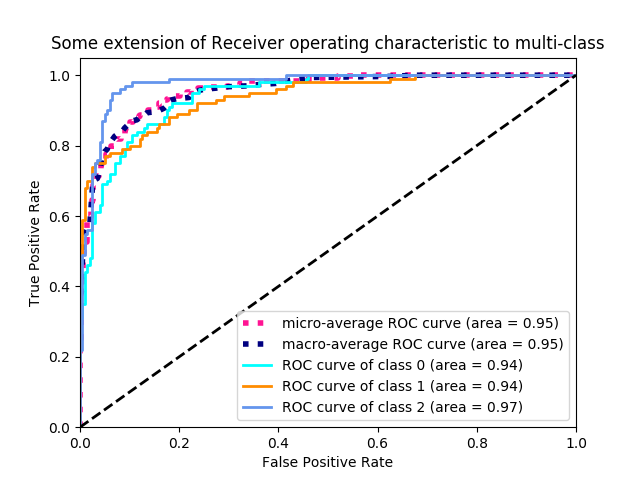
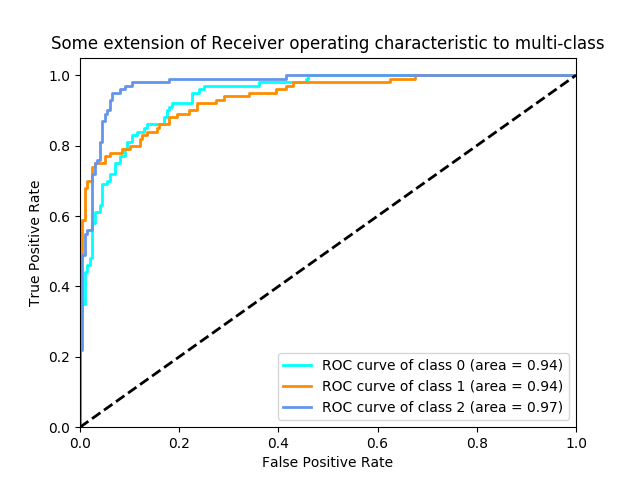
roc

diff --git a/TransferLearning/ROCCurve.py b/TransferLearning/ROCCurve.py
@@ -156,6 +156,7 @@ roc_auc["macro"] = auc(fpr["macro"], tpr["macro"])
 
 # Plot all ROC curves
 plt.figure(1)
+'''
 plt.plot(fpr["micro"], tpr["micro"],
          label='micro-average ROC curve (area = {0:0.2f})'
                ''.format(roc_auc["micro"]),
@@ -165,7 +166,7 @@ plt.plot(fpr["macro"], tpr["macro"],
          label='macro-average ROC curve (area = {0:0.2f})'
                ''.format(roc_auc["macro"]),
          color='navy', linestyle=':', linewidth=4)
-
+'''
 colors = cycle(['aqua', 'darkorange', 'cornflowerblue'])
 for i, color in zip(range(n_classes), colors):
     plt.plot(fpr[i], tpr[i], color=color, lw=lw,
@@ -190,6 +191,7 @@ else:
 plt.figure(2)
 plt.xlim(0, 0.2)
 plt.ylim(0.8, 1)
+'''
 plt.plot(fpr["micro"], tpr["micro"],
          label='micro-average ROC curve (area = {0:0.2f})'
                ''.format(roc_auc["micro"]),
@@ -199,7 +201,7 @@ plt.plot(fpr["macro"], tpr["macro"],
          label='macro-average ROC curve (area = {0:0.2f})'
                ''.format(roc_auc["macro"]),
          color='navy', linestyle=':', linewidth=4)
-
+'''
 colors = cycle(['aqua', 'darkorange', 'cornflowerblue'])
 for i, color in zip(range(n_classes), colors):
     plt.plot(fpr[i], tpr[i], color=color, lw=lw,
